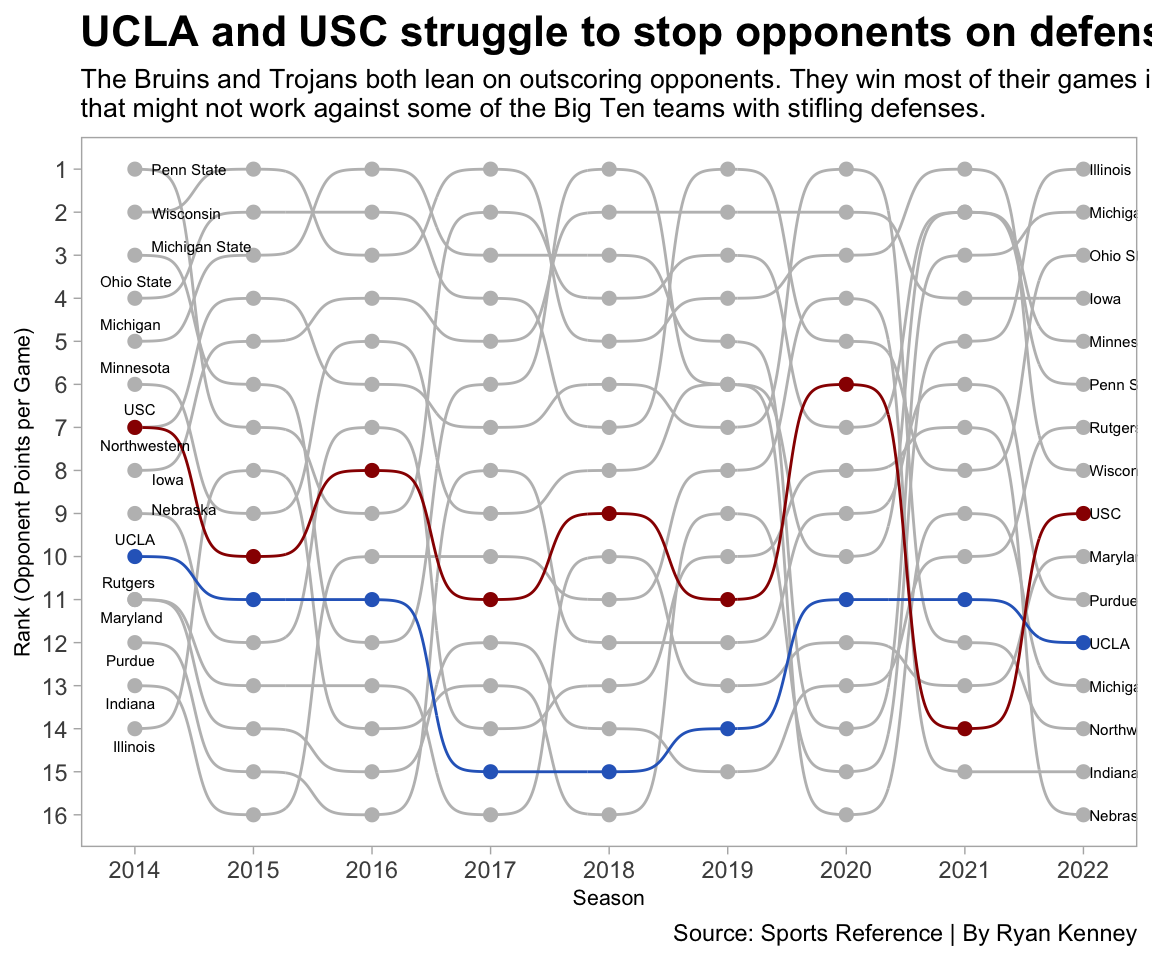
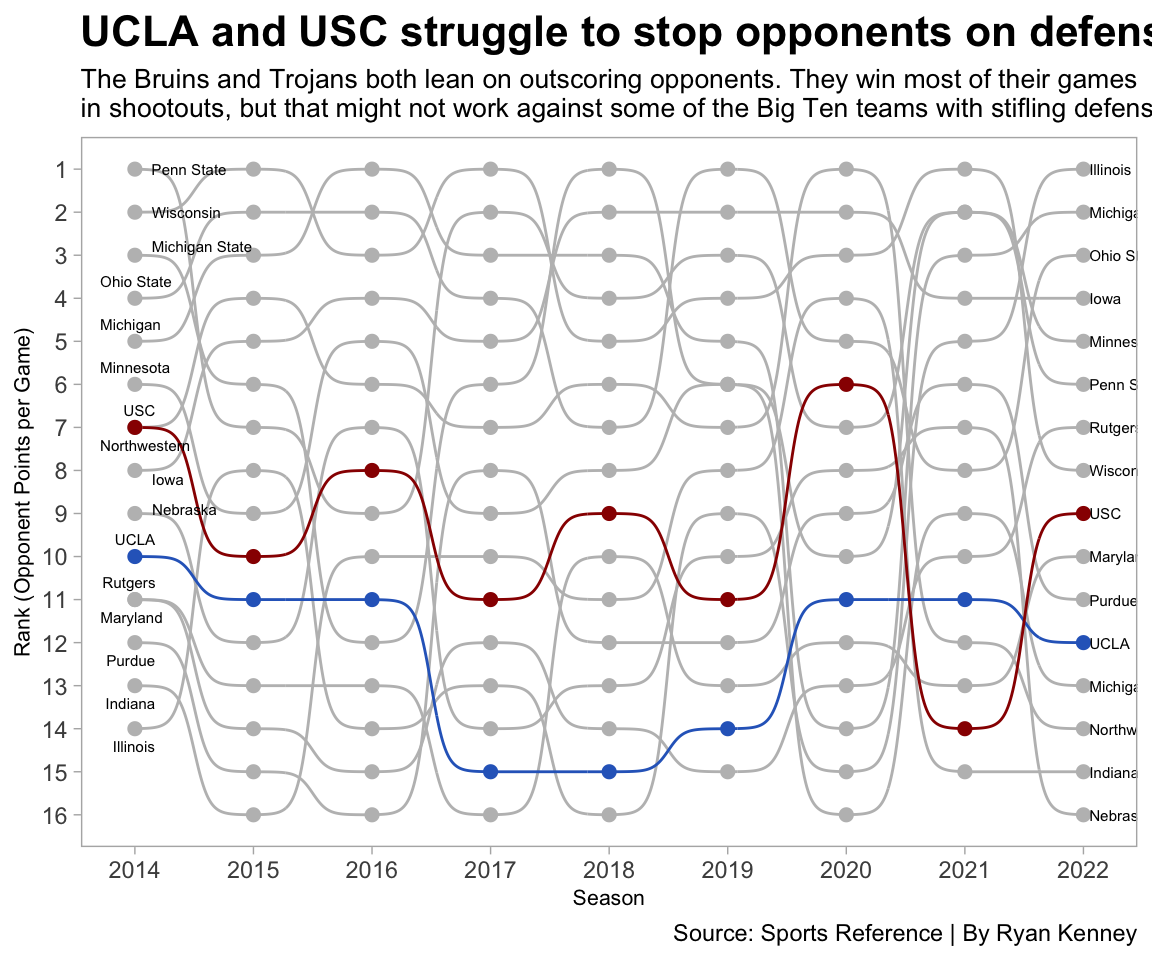
This

diff --git a/posts/ucla-and-usc-meet-big-ten-style-football/index.html b/posts/ucla-and-usc-meet-big-ten-style-football/index.html
@@ -345,7 +345,7 @@ code span.wa { color: #60a0b0; font-weight: bold; font-style: italic; } /* Warni
 <span id="cb2-18"><a href="#cb2-18" aria-hidden="true" tabindex="-1"></a>  <span class="fu">scale_x_continuous</span>(<span class="at">breaks=</span><span class="fu">c</span>(<span class="dv">2014</span>, <span class="dv">2015</span>, <span class="dv">2016</span>, <span class="dv">2017</span>, <span class="dv">2018</span>, <span class="dv">2019</span>, <span class="dv">2020</span>, <span class="dv">2021</span>, <span class="dv">2022</span>)) <span class="sc">+</span></span>
 <span id="cb2-19"><a href="#cb2-19" aria-hidden="true" tabindex="-1"></a>  <span class="fu">scale_y_reverse</span>(<span class="at">breaks=</span><span class="fu">c</span>(<span class="dv">1</span>,<span class="dv">2</span>,<span class="dv">3</span>,<span class="dv">4</span>,<span class="dv">5</span>,<span class="dv">6</span>,<span class="dv">7</span>,<span class="dv">8</span>,<span class="dv">9</span>,<span class="dv">10</span>,<span class="dv">11</span>,<span class="dv">12</span>,<span class="dv">13</span>,<span class="dv">14</span>,<span class="dv">15</span>,<span class="dv">16</span>)) <span class="sc">+</span></span>
 <span id="cb2-20"><a href="#cb2-20" aria-hidden="true" tabindex="-1"></a>  </span>
-<span id="cb2-21"><a href="#cb2-21" aria-hidden="true" tabindex="-1"></a>  <span class="fu">labs</span>(<span class="at">title =</span> <span class="st">"UCLA and USC struggle to stop opponents on defense "</span>, <span class="at">subtitle=</span><span class="st">"The Bruins and Trojans both lean on outscoring opponents. They win most of their games in shootouts, but</span><span class="sc">\n</span><span class="st">that might not work against some of the Big Ten teams with stifling defenses."</span>, <span class="at">y=</span><span class="st">"Rank (Opponent Points per Game)"</span>, <span class="at">x=</span><span class="st">"Season"</span>, <span class="at">caption=</span><span class="st">"Source: Sports Reference | By Ryan Kenney"</span>) <span class="sc">+</span></span>
+<span id="cb2-21"><a href="#cb2-21" aria-hidden="true" tabindex="-1"></a>  <span class="fu">labs</span>(<span class="at">title =</span> <span class="st">"UCLA and USC struggle to stop opponents on defense "</span>, <span class="at">subtitle=</span><span class="st">"The Bruins and Trojans both lean on outscoring opponents. They win most of their games</span><span class="sc">\n</span><span class="st">in shootouts, but that might not work against some of the Big Ten teams with stifling defenses."</span>, <span class="at">y=</span><span class="st">"Rank (Opponent Points per Game)"</span>, <span class="at">x=</span><span class="st">"Season"</span>, <span class="at">caption=</span><span class="st">"Source: Sports Reference | By Ryan Kenney"</span>) <span class="sc">+</span></span>
 <span id="cb2-22"><a href="#cb2-22" aria-hidden="true" tabindex="-1"></a>  </span>
 <span id="cb2-23"><a href="#cb2-23" aria-hidden="true" tabindex="-1"></a><span class="fu">theme_light</span>()<span class="sc">+</span></span>
 <span id="cb2-24"><a href="#cb2-24" aria-hidden="true" tabindex="-1"></a> <span class="fu">theme</span>(</span>
